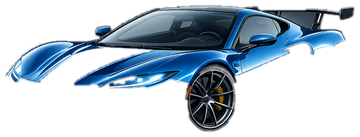
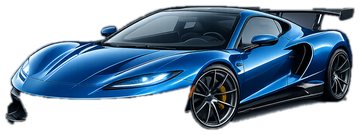
Fix sports car gift cutout losing its carbon-fiber front end
The car's dark front splitter, side skirts, and rear diffuser were
near-black, same as the source photo's black vignette background, so the
background-removal flood fill leaked through the ground shadow beneath
the car and ate those parts along with it. Lowered the flood-fill color
tolerance for this image (28 -> 14) so it still clears the smooth vignette
but no longer bridges across the shadow into the car's dark bodywork.
Also raised the sports car's price to 1500 gold.

diff --git a/index.html b/index.html
@@ -2080,7 +2080,7 @@
     {id:"cubeboy", icon:"👦", image:"gifts/cubeboy.png", name:"Kub Oğlan", cost:200},
     {id:"diamond", icon:"💎", name:"Almaz", cost:250},
     {id:"trophy", icon:"🏆", name:"Kubok", cost:500},
-    {id:"sportscar", icon:"🚗", image:"gifts/sportscar.png", name:"Sport Maşın", cost:750}
+    {id:"sportscar", icon:"🚗", image:"gifts/sportscar.png", name:"Sport Maşın", cost:1500}
   ];
   var giftTargetId = null;
   var giftTargetName = null;
